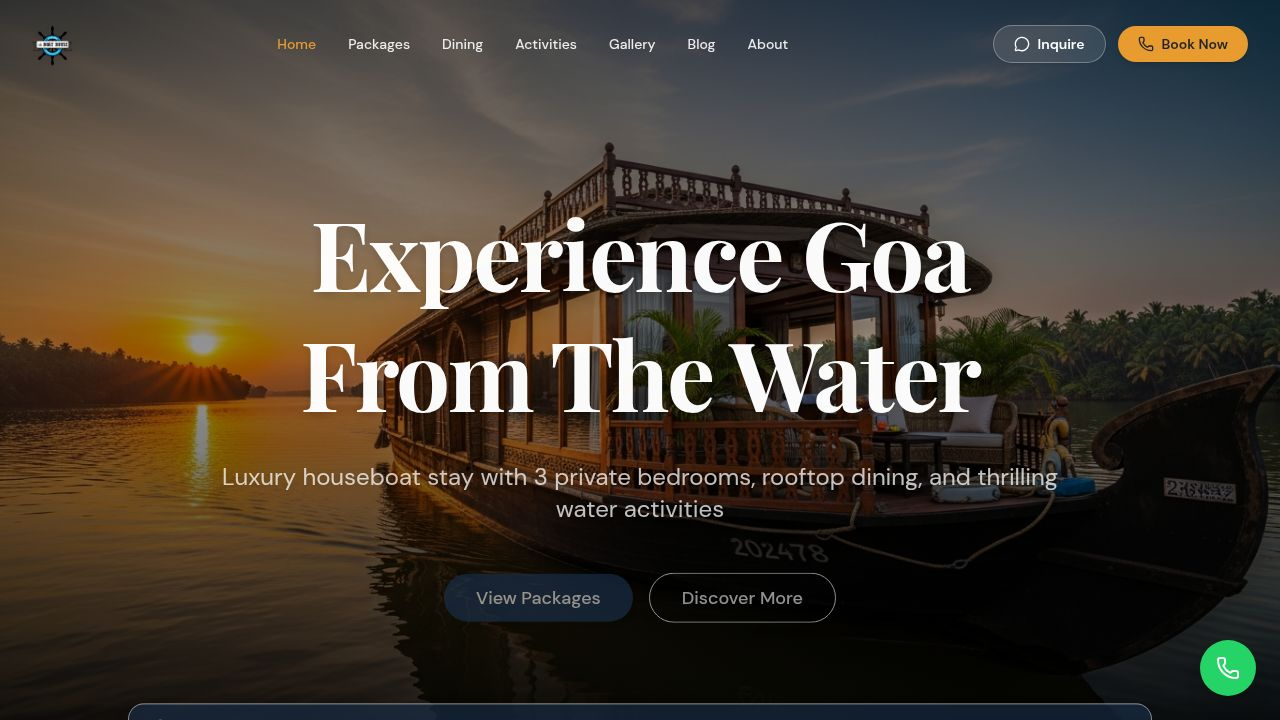
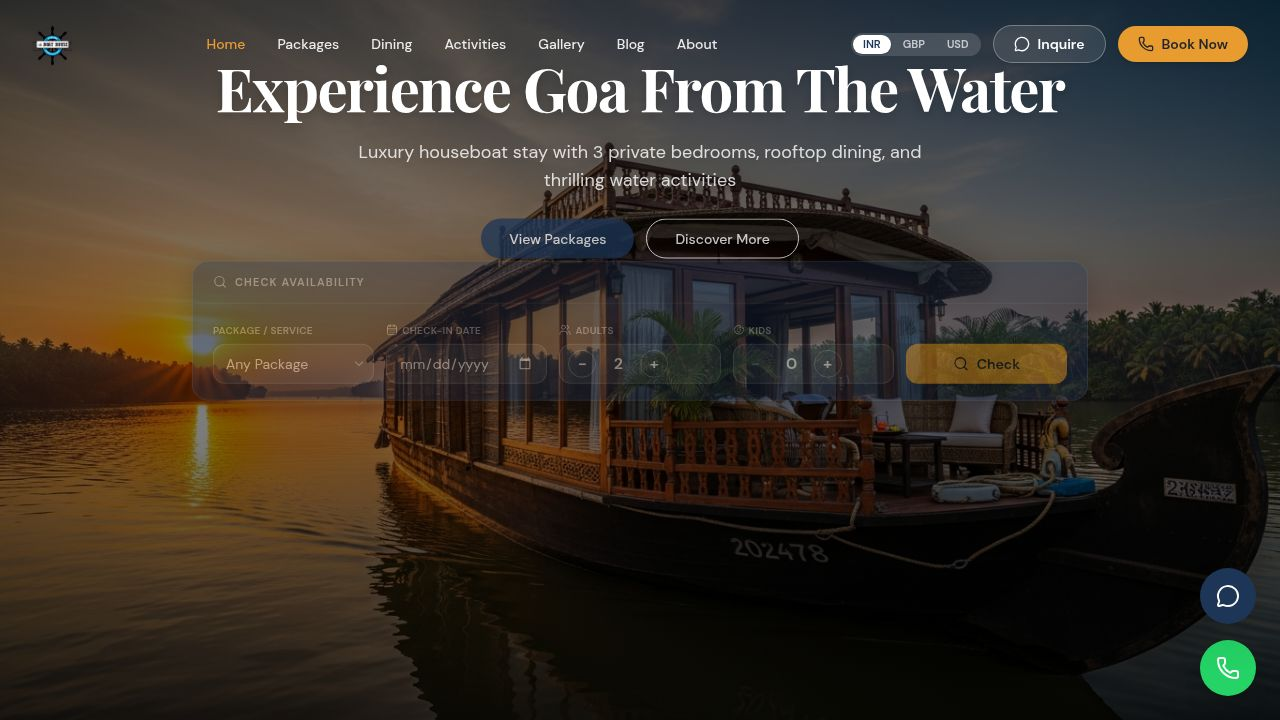
Add admin controls to show or hide chat and WhatsApp widgets
Update database schema, API definitions, admin settings page, and public layout to introduce toggles for controlling the visibility of the chat widget and WhatsApp button.

Replit-Commit-Author: Agent
Replit-Commit-Session-Id: fd3cc3ac-fbcd-4bce-9abf-2455af2c572e
Replit-Commit-Checkpoint-Type: full_checkpoint
Replit-Commit-Event-Id: 1006837b-0fe5-43ff-8e53-2a7d77845ab4
Replit-Commit-Screenshot-Url: https://storage.googleapis.com/screenshot-production-us-central1/6be23b18-9d08-4ecc-ac8c-b3f56985af62/fd3cc3ac-fbcd-4bce-9abf-2455af2c572e/ejjZ8nu
Replit-Helium-Checkpoint-Created: true

diff --git a/artifacts/houseboat/src/pages/admin/Settings.tsx b/artifacts/houseboat/src/pages/admin/Settings.tsx
@@ -11,7 +11,7 @@ import { useToast } from "@/hooks/use-toast";
 import {
   Save, Globe, User, Shield, Mail, Phone, Lock,
   KeyRound, BadgeCheck, CalendarDays, Loader2, Eye, EyeOff,
-  Upload, X, ImageIcon, Menu, Send, Server, CheckCircle, XCircle
+  Upload, X, ImageIcon, Menu, Send, Server, CheckCircle, XCircle, LayoutGrid
 } from "lucide-react";
 import { cn } from "@/lib/utils";
 
@@ -131,6 +131,11 @@ export default function AdminSettings() {
   const [hiddenItems, setHiddenItems] = useState<string[]>([]);
   const [navSaving, setNavSaving] = useState(false);
 
+  // ── Widget visibility state ──────────────────────────────────────────────
+  const [showChatWidget, setShowChatWidget] = useState(true);
+  const [showWhatsappButton, setShowWhatsappButton] = useState(true);
+  const [widgetSaving, setWidgetSaving] = useState(false);
+
   // ── Site settings form ─────────────────────────────────────────────────
   const updateMutation = useUpdateSettings({
     mutation: {
@@ -162,6 +167,8 @@ export default function AdminSettings() {
       });
       setLogoPreview((settings as any).siteLogo || "");
       setHiddenItems((settings as any).navHiddenItems || []);
+      setShowChatWidget((settings as any).showChatWidget !== "false");
+      setShowWhatsappButton((settings as any).showWhatsappButton !== "false");
     }
   }, [settings]);
 
@@ -237,6 +244,28 @@ export default function AdminSettings() {
       toast({ title: "Error", description: "Failed to save menu config.", variant: "destructive" });
     } finally {
       setNavSaving(false);
+    }
+  };
+
+  // ── Widget visibility handlers ───────────────────────────────────────────
+  const saveWidgets = async () => {
+    setWidgetSaving(true);
+    try {
+      const res = await fetch(`${API}/settings`, {
+        method: "PATCH",
+        headers: { "Content-Type": "application/json" },
+        body: JSON.stringify({
+          showChatWidget: showChatWidget ? "true" : "false",
+          showWhatsappButton: showWhatsappButton ? "true" : "false",
+        }),
+      });
+      if (!res.ok) throw new Error("Failed");
+      queryClient.invalidateQueries({ queryKey: getGetSettingsQueryKey() });
+      toast({ title: "Widget settings saved", description: "Floating widget visibility updated." });
+    } catch {
+      toast({ title: "Error", description: "Failed to save widget settings.", variant: "destructive" });
+    } finally {
+      setWidgetSaving(false);
     }
   };
 
@@ -569,6 +598,57 @@ export default function AdminSettings() {
                       </label>
                     );
                   })}
+                </div>
+              </div>
+
+              {/* ── Widget Visibility ─────────────────────────────────────── */}
+              <div className="bg-card border border-border rounded-xl p-6 shadow-sm space-y-4">
+                <div className="flex items-center justify-between pb-3 border-b border-border">
+                  <div className="flex items-center gap-2">
+                    <LayoutGrid className="w-4 h-4 text-primary" />
+                    <h3 className="font-bold text-base">Floating Widget Visibility</h3>
+                  </div>
+                  <Button size="sm" onClick={saveWidgets} disabled={widgetSaving} className="gap-2">
+                    {widgetSaving ? <Loader2 className="w-3.5 h-3.5 animate-spin" /> : <Save className="w-3.5 h-3.5" />}
+                    Save
+                  </Button>
+                </div>
+                <p className="text-sm text-muted-foreground">Toggle whether the chat bubble and WhatsApp button appear on the public site.</p>
+                <div className="grid grid-cols-1 sm:grid-cols-2 gap-3">
+                  {[
+                    { label: "Live Chat Widget", desc: "Floating chat bubble for visitors", value: showChatWidget, set: setShowChatWidget },
+                    { label: "WhatsApp Button", desc: "Floating WhatsApp contact button", value: showWhatsappButton, set: setShowWhatsappButton },
+                  ].map(({ label, desc, value, set }) => (
+                    <button
+                      key={label}
+                      type="button"
+                      onClick={() => set(!value)}
+                      className={cn(
+                        "flex items-center gap-3 p-4 rounded-lg border cursor-pointer transition-colors text-left w-full",
+                        value ? "bg-primary/5 border-primary/30" : "bg-muted/40 border-border"
+                      )}
+                    >
+                      <div className={cn(
+                        "relative w-10 h-6 rounded-full transition-colors shrink-0",
+                        value ? "bg-primary" : "bg-muted-foreground/30"
+                      )}>
+                        <span className={cn(
+                          "absolute top-0.5 left-0.5 w-5 h-5 bg-white rounded-full shadow transition-transform",
+                          value ? "translate-x-4" : "translate-x-0"
+                        )} />
+                      </div>
+                      <div>
+                        <p className="text-sm font-medium">{label}</p>
+                        <p className="text-xs text-muted-foreground">{desc}</p>
+                      </div>
+                      <span className={cn(
+                        "ml-auto text-xs px-2 py-0.5 rounded-full font-medium shrink-0",
+                        value ? "bg-green-100 text-green-700" : "bg-muted text-muted-foreground"
+                      )}>
+                        {value ? "Visible" : "Hidden"}
+                      </span>
+                    </button>
+                  ))}
                 </div>
               </div>
 

diff --git a/artifacts/houseboat/src/components/layout/PublicLayout.tsx b/artifacts/houseboat/src/components/layout/PublicLayout.tsx
@@ -70,6 +70,8 @@ function PublicLayoutInner({ children }: { children: React.ReactNode }) {
 
   const logo = (settings as any)?.siteLogo || FALLBACK_LOGO;
   const hiddenItems: string[] = (settings as any)?.navHiddenItems || [];
+  const showChat = (settings as any)?.showChatWidget !== "false";
+  const showWhatsapp = (settings as any)?.showWhatsappButton !== "false";
   const NAV_LINKS = ALL_NAV_LINKS.filter(l => !hiddenItems.includes(l.name));
 
   // Keep browser tab title in sync with site name
@@ -284,20 +286,22 @@ function PublicLayoutInner({ children }: { children: React.ReactNode }) {
       <InquiryModal open={inquiryOpen} onClose={closeInquiry} initialData={inquiryPrefill ?? undefined} />
 
       {/* Floating WhatsApp Button */}
-      <a
-        href={whatsappLink}
-        target="_blank"
-        rel="noopener noreferrer"
-        className="fixed bottom-6 right-6 z-50 bg-[#25D366] text-white p-4 rounded-full shadow-xl hover:scale-110 transition-transform flex items-center justify-center group"
-      >
-        <Phone className="w-6 h-6" />
-        <span className="absolute right-full mr-4 bg-white text-foreground px-3 py-1.5 rounded-lg text-sm font-medium opacity-0 group-hover:opacity-100 transition-opacity whitespace-nowrap shadow-md pointer-events-none">
-          WhatsApp us
-        </span>
-      </a>
+      {showWhatsapp && (
+        <a
+          href={whatsappLink}
+          target="_blank"
+          rel="noopener noreferrer"
+          className="fixed bottom-6 right-6 z-50 bg-[#25D366] text-white p-4 rounded-full shadow-xl hover:scale-110 transition-transform flex items-center justify-center group"
+        >
+          <Phone className="w-6 h-6" />
+          <span className="absolute right-full mr-4 bg-white text-foreground px-3 py-1.5 rounded-lg text-sm font-medium opacity-0 group-hover:opacity-100 transition-opacity whitespace-nowrap shadow-md pointer-events-none">
+            WhatsApp us
+          </span>
+        </a>
+      )}
 
       {/* Live Chat Widget */}
-      <ChatWidget />
+      {showChat && <ChatWidget />}
     </div>
   );
 }

diff --git a/lib/db/src/schema/settings.ts b/lib/db/src/schema/settings.ts
@@ -26,6 +26,8 @@ export const settingsTable = pgTable("settings", {
   smtpFrom: text("smtp_from").notNull().default(""),
   smtpSecure: text("smtp_secure").notNull().default("false"),
   notifyEmail: text("notify_email").notNull().default(""),
+  showChatWidget: text("show_chat_widget").notNull().default("true"),
+  showWhatsappButton: text("show_whatsapp_button").notNull().default("true"),
   updatedAt: timestamp("updated_at", { withTimezone: true }).notNull().defaultNow().$onUpdate(() => new Date()),
 });
 
